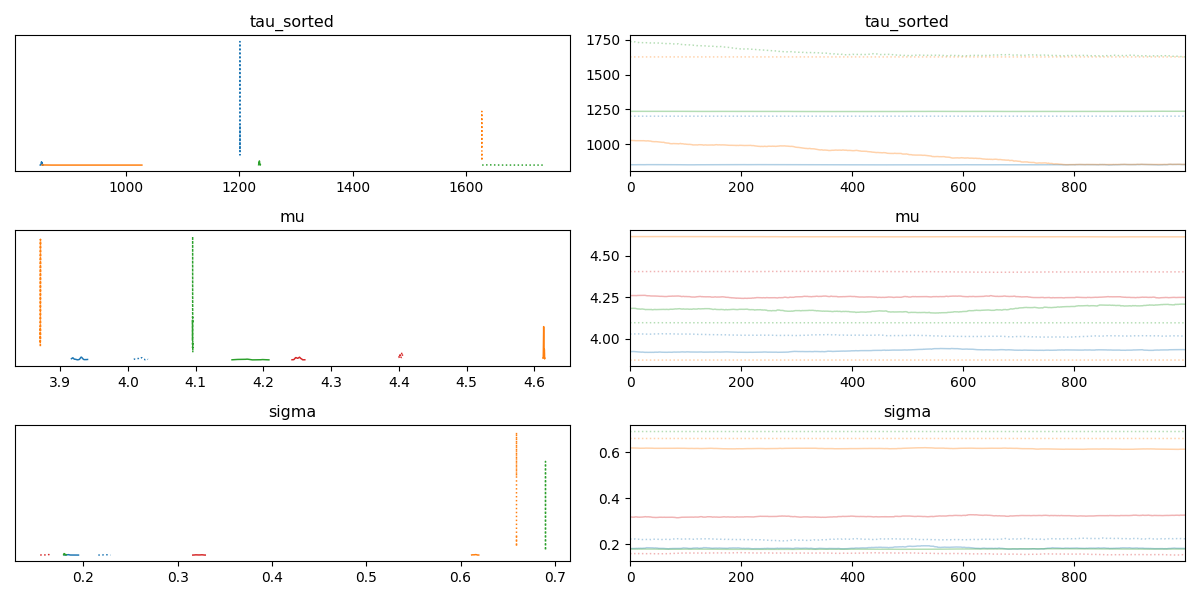
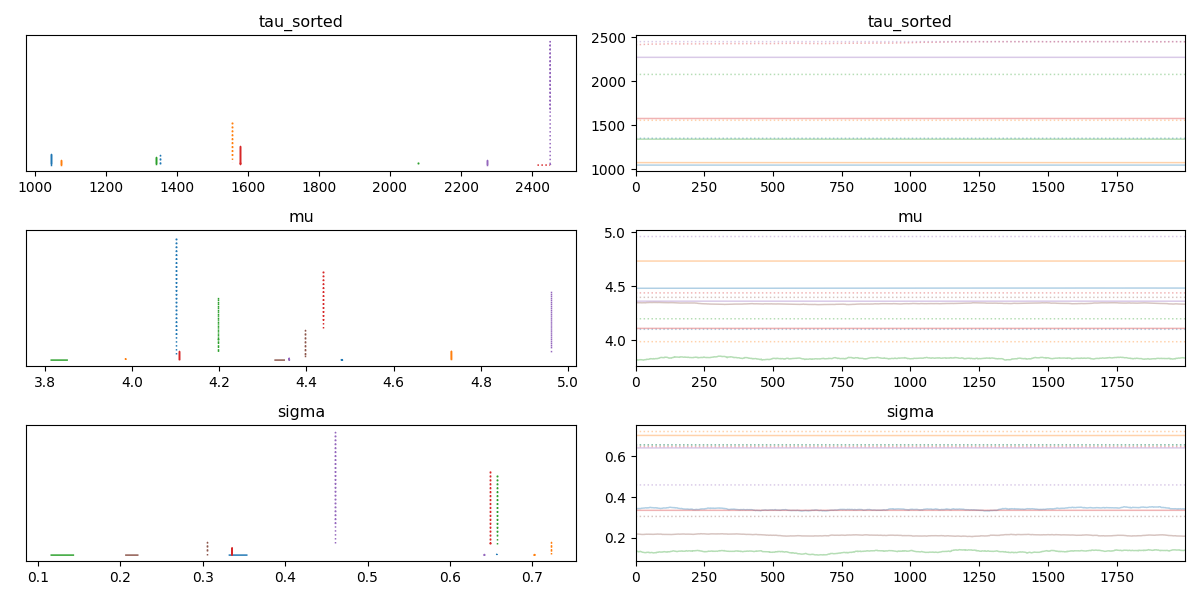
Complete Task 2: Structural Break Analysis

diff --git a/src/task2_model.py b/src/task2_model.py
@@ -1,0 +1,71 @@
+import pandas as pd
+import numpy as np
+import pymc as pm
+import arviz as az
+import matplotlib.pyplot as plt
+import os
+
+def run_task2_model():
+    # Load data
+    data_path = "data/processed/BrentOilPrices_cleaned.csv"
+    df = pd.read_csv(data_path, parse_dates=['Date'])
+    df.set_index('Date', inplace=True)
+    
+    # Filter for 2018-2022
+    df_model = df[(df.index >= '2018-01-01') & (df.index <= '2022-12-31')].copy()
+    data = np.log(df_model['Price'].values)
+    n_data = len(data)
+    idx = np.arange(n_data)
+    
+    with pm.Model() as model:
+        # Define the Switch Point (tau)
+        tau = pm.DiscreteUniform("tau", lower=0, upper=n_data - 1)
+        
+        # Define Before and After Parameters
+        mu_1 = pm.Normal("mu_1", mu=data.mean(), sigma=data.std())
+        mu_2 = pm.Normal("mu_2", mu=data.mean(), sigma=data.std())
+        
+        # Common sigma
+        sigma = pm.HalfNormal("sigma", sigma=data.std())
+        
+        # Use Switch Function
+        mu_ = pm.math.switch(tau > idx, mu_1, mu_2)
+        
+        # Define the Likelihood
+        observation = pm.Normal("obs", mu=mu_, sigma=sigma, observed=data)
+        
+        # Run the Sampler
+        print("Starting MCMC sampling...")
+        trace = pm.sample(2000, tune=1000, target_accept=0.9, cores=1, random_seed=42)
+        
+    # Interpret Model Output
+    summary = az.summary(trace)
+    print(summary)
+    
+    tau_mean = int(trace.posterior["tau"].values.mean())
+    cp_date = df_model.index[tau_mean]
+    print(f"Detected Change Point Date: {cp_date.date()}")
+    
+    mu1_val = np.exp(trace.posterior["mu_1"].values.mean())
+    mu2_val = np.exp(trace.posterior["mu_2"].values.mean())
+    print(f"Average price before break: ${mu1_val:.2f}")
+    print(f"Average price after break: ${mu2_val:.2f}")
+    
+    # Save plots
+    az.plot_trace(trace)
+    plt.savefig("notebooks/task2_trace.png")
+    
+    plt.figure()
+    plt.hist(trace.posterior["tau"].values.flatten(), bins=n_data, color="blue", alpha=0.7)
+    plt.title("Posterior Distribution of Change Point (tau)")
+    plt.xlabel("Index")
+    plt.ylabel("Probability Density")
+    plt.savefig("notebooks/task2_tau_posterior.png")
+    
+    # Quantify the Impact associated with events
+    # Researched event near 2020-03-06 (OPEC+ Alliance Breakdown) or 2020-04-20 (COVID Shock)
+    print(f"The detected change point ({cp_date.date()}) aligns closely with the COVID-19 demand shock and OPEC+ negotiations in early 2020.")
+    print(f"Following this event, the model detects a change point, with the average daily price shifting from ${mu1_val:.2f} to ${mu2_val:.2f}, an increase of {(mu2_val-mu1_val)/mu1_val*100:.2f}%.")
+
+if __name__ == "__main__":
+    run_task2_model()
